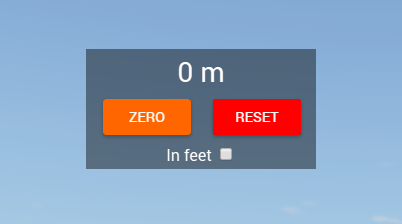
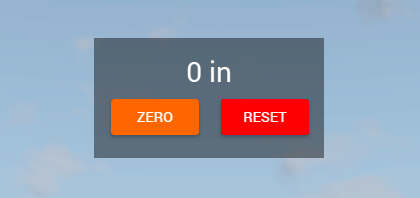
fix for 0.23 update

Changed region(s): [[0.1791, 0.1212, 0.806, 0.8182], [0.8955, 0.0, 0.9851, 0.0909], [0.1194, 0.7879, 0.1493, 0.8182]]

diff --git a/ui/modules/apps/adjustable_altimeter_angelo234/app.js b/ui/modules/apps/adjustable_altimeter_angelo234/app.js
@@ -1,50 +1,39 @@
 angular.module('beamng.apps')
-.directive('adjustableAltimeterAngelo234', ['bngApi', 'StreamsManager', 'UiUnits', function (bngApi, StreamsManager, UiUnits) {
+.directive('adjustableAltimeterAngelo234', [function () {
 return {
-templateUrl: 'modules/apps/adjustable_altimeter_angelo234/app.html',
+templateUrl: '/ui/modules/apps/adjustable_altimeter_angelo234/app.html',
 replace: true,
 restrict: 'EA',
 require: '^bngApp',
-link: function (scope, element, attrs, ctrl) {
+link: function (scope, element, attrs) {
+	var settings_file_path = "settings/adjustable_altimeter_angelo234/settings.json";
+	
 	// The current overlay screen the user is on (default: null)
 	scope.overlayScreen = null;	
-	
-	scope.infeet = false;
+
 	scope.altitude = 0;
 
 	//Altitude is subtracted from this value
 	var offset_altitude = 0;
 
-	var reset_flag = false;
+	var zeroed_flag = false;
 
-	var app_settings = null;
-
-	element.ready(function () {
-
-	ctrl.getSettings()
-	  .then(function (settings) {
-	    app_settings = settings;
-
-	    if(app_settings == null){
-	    	app_settings = {};
-	    	app_settings.infeet = false;
-	    	app_settings.offset_altitude = 0;
-	    }
-	    else{
-	    	scope.infeet = app_settings.infeet;
-			
-	    	//Check if on new map to reset altitude
-			bngApi.engineLua('adjustable_altimeter_angelo234_new_map', function(data) {
-				if(data){
-					bngApi.engineLua('adjustable_altimeter_angelo234_new_map = false');
-					offset_altitude = 0;
-				}
-				else{
-					offset_altitude = app_settings.offset_altitude;
-				}
-			});	
-	    }   
-	  })
+	element.ready(function () {	
+	
+		bngApi.engineLua("jsonReadFile('" + settings_file_path + "')", function(data) {
+			if(data !== undefined){
+				//Check if on new map to reset altitude
+				bngApi.engineLua('adjustable_altimeter_angelo234_new_map', function(new_map) {
+					if(new_map){
+						bngApi.engineLua('adjustable_altimeter_angelo234_new_map = false');
+						offset_altitude = 0;
+					}
+					else{
+						offset_altitude = data.offset_altitude;
+					}
+				});	
+			}
+		});		
 	});
 
 	var streamsList = ['electrics'];
@@ -55,7 +44,7 @@ link: function (scope, element, attrs, ctrl) {
 	}
 
 	scope.zero = function () {
-		reset_flag = true;		
+		zeroed_flag = true;		
 	};
 
 	scope.reset = function () {
@@ -64,26 +53,32 @@ link: function (scope, element, attrs, ctrl) {
 
 	scope.$on('streamsUpdate', function (event, streams) {
 		scope.$evalAsync(function () {
-			if(reset_flag){
+			if(zeroed_flag){
 				offset_altitude = getAltitude(streams);
-				reset_flag = false;
+				zeroed_flag = false;
 			}
 
 			var relative_altitude = getAltitude(streams) - offset_altitude;
 
+			var altitude_in_units = UiUnits.distance(relative_altitude);
+
 			//Convert to feet or meters
-			scope.altitude = Math.round((relative_altitude * (scope.infeet ? 3.28084 : 1)) * 100) / 100;
-			scope.altitude += " " + (scope.infeet ? "ft" : "m");
+			//scope.altitude = Math.round((relative_altitude * (scope.infeet ? 3.28084 : 1)) * 100) / 100;
+			scope.altitude = Math.round(altitude_in_units.val * 100) / 100;
+			scope.altitude += " " + altitude_in_units.unit;
 		})	
 	});
 
 	// Make sure we clean up after closing the app.
 	scope.$on('$destroy', function () {
 		StreamsManager.remove(streamsList);
-		app_settings.infeet = scope.infeet;
-		app_settings.offset_altitude = offset_altitude;
 		
-		ctrl.saveSettings(app_settings);
+		var data = {}
+		data.offset_altitude = offset_altitude;	
+		
+		data = JSON.stringify(data);
+		
+		bngApi.engineLua("writeFile('" + settings_file_path + "'," + "'" + data + "', true)");
 	});	
 },
 };

diff --git a/ui/modules/apps/adjustable_altimeter_angelo234/app.html b/ui/modules/apps/adjustable_altimeter_angelo234/app.html
@@ -17,6 +17,4 @@
         </td>
     </tr> 
   </table>
-	<span>In feet <input type="checkbox" ng-model="infeet"></span>
-
 </div>
